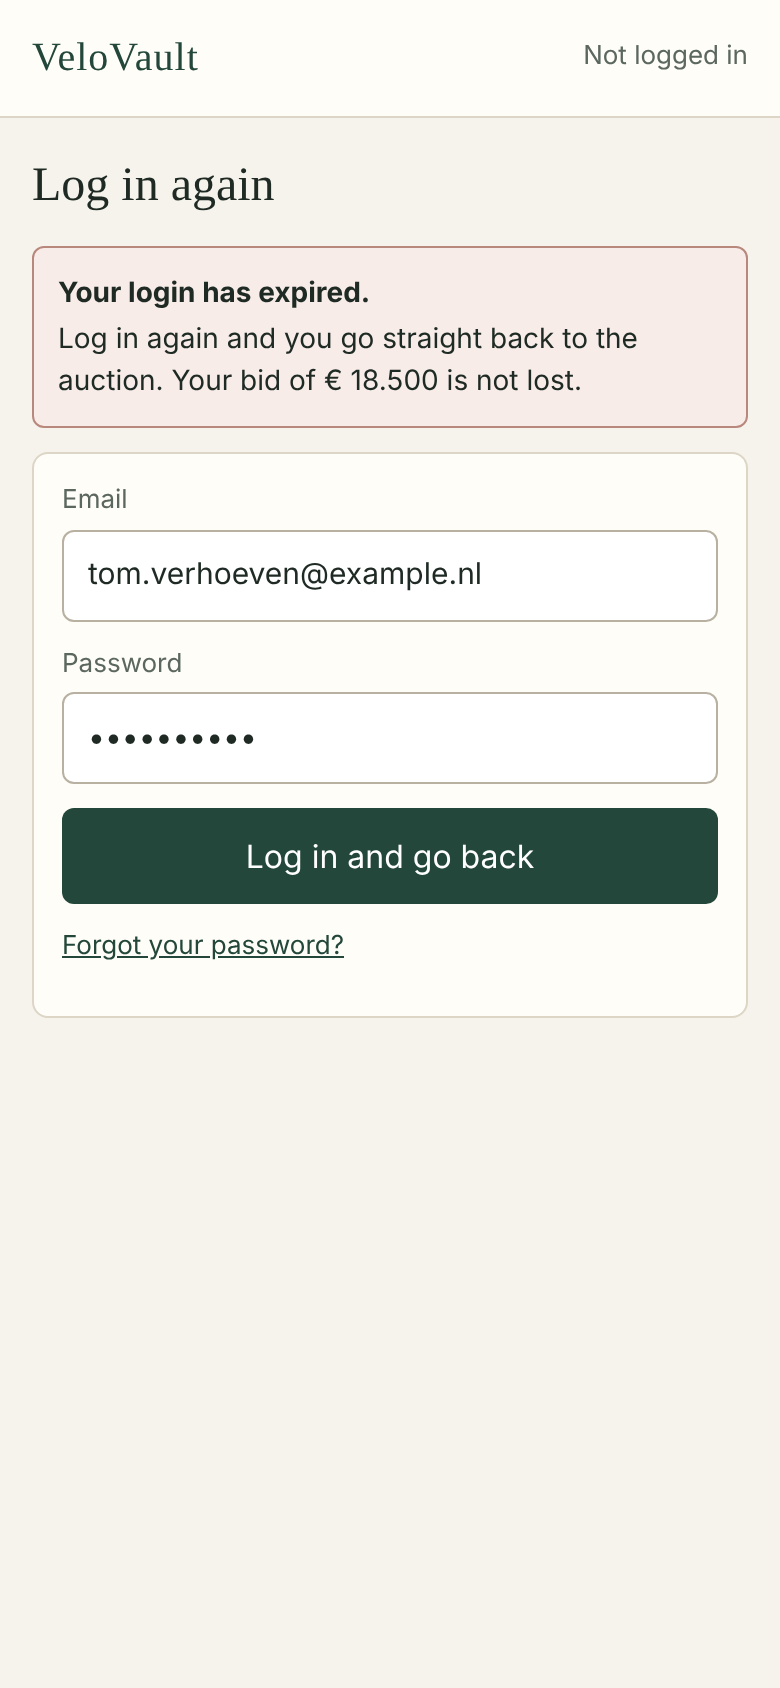
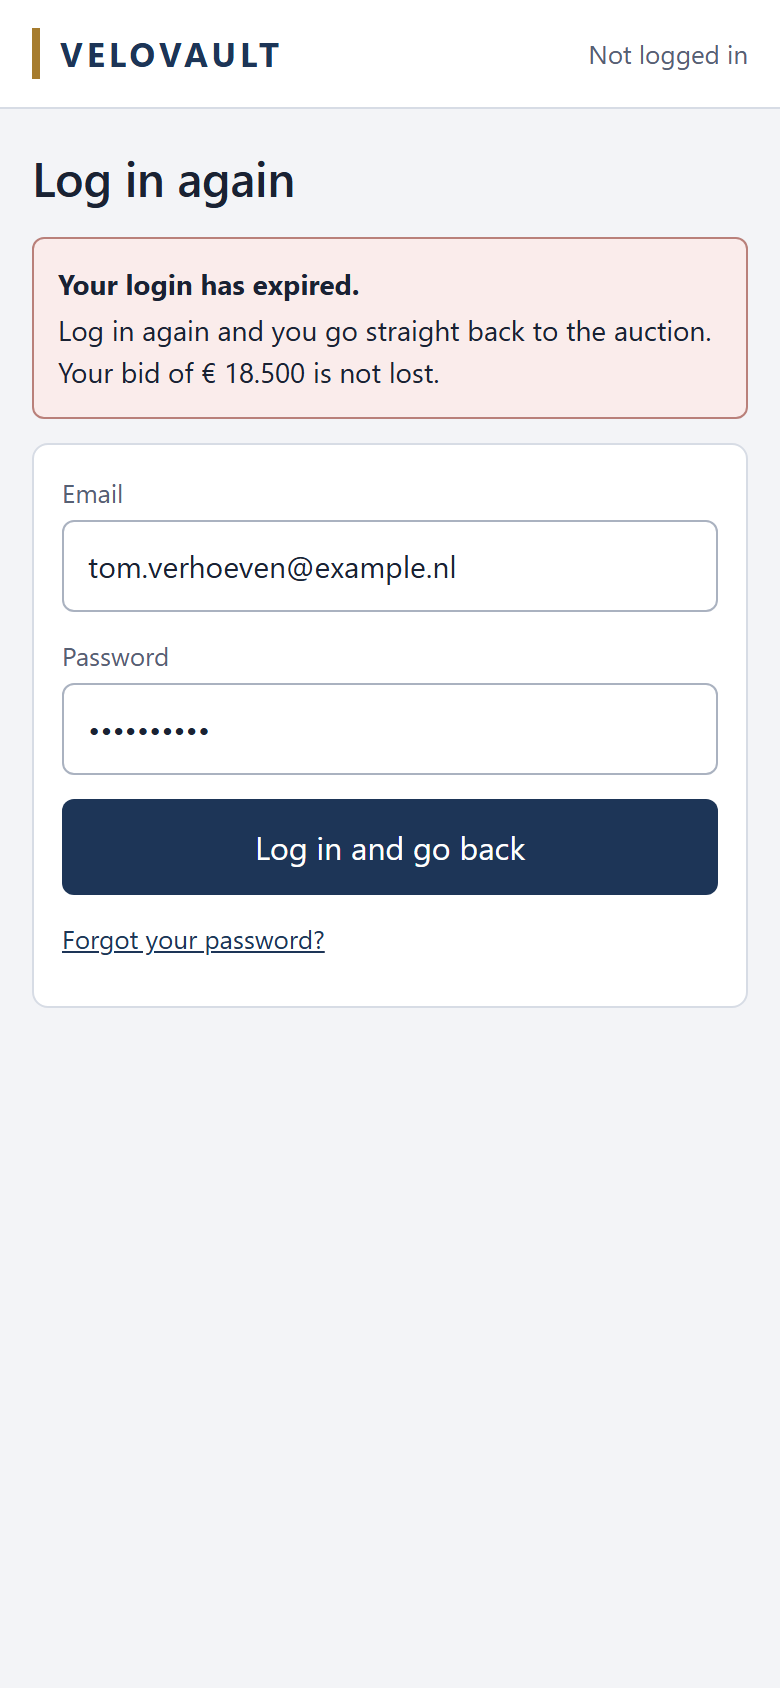
Give the design its own look and add demo car photos
Navy and brass instead of green, one sans serif font and a new logo,
in the app and in the hi-fi prototype, with new screenshots.
Every car in the demo data has a photo from Wikimedia Commons, with credits.

Closes #65

diff --git a/products/hi-fi-prototype/prototype.html b/products/hi-fi-prototype/prototype.html
@@ -6,22 +6,23 @@
 <title>VeloVault prototype</title>
 <style>
   :root {
-    --bg: #f6f3ec;
-    --card: #fffdf8;
-    --ink: #1e2a23;
-    --muted: #5b675f;
-    --line: #ddd5c6;
-    --accent: #23473a;
+    --bg: #f3f4f7;
+    --card: #ffffff;
+    --ink: #1a2233;
+    --muted: #566074;
+    --line: #d7dce5;
+    --accent: #1d3557;
     --accent-ink: #ffffff;
-    --soft: #e9eee9;
-    --error-bg: #f8ece9;
-    --error-line: #b9887d;
-    --ok-bg: #e8f0ea;
-    --ok-line: #7fa48d;
+    --brass: #a67c2e;
+    --soft: #e8edf5;
+    --error-bg: #faeceb;
+    --error-line: #b9807a;
+    --ok-bg: #e7f1ec;
+    --ok-line: #6f9e84;
   }
   * { box-sizing: border-box; }
-  body { margin: 0; background: #d9d4c9; font: 15px/1.5 -apple-system, "Segoe UI", Roboto, Helvetica, Arial, sans-serif; color: var(--ink); }
-  h1, h2, h3, .brand { font-family: Georgia, "Times New Roman", serif; font-weight: normal; }
+  body { margin: 0; background: #d5d9e0; font: 15px/1.5 -apple-system, "Segoe UI", Roboto, Helvetica, Arial, sans-serif; color: var(--ink); }
+  h1, h2, h3 { font-weight: 600; letter-spacing: -.2px; }
   h1 { font-size: 24px; margin: 0 0 4px; }
   h2 { font-size: 19px; margin: 0 0 8px; }
   h3 { font-size: 16px; margin: 0 0 6px; }
@@ -39,26 +40,28 @@
 
   /* header */
   .top { display: flex; align-items: center; justify-content: space-between; padding: 14px 16px; border-bottom: 1px solid var(--line); background: var(--card); }
-  .brand { font-size: 20px; letter-spacing: .5px; color: var(--accent); }
+  .brand { font-size: 17px; font-weight: 700; letter-spacing: 2px; text-transform: uppercase; color: var(--accent); border-left: 4px solid var(--brass); padding-left: 10px; }
   .top .user { font-size: 13px; color: var(--muted); }
   .wrap { padding: 16px; }
   .back { display: inline-block; margin-bottom: 10px; font-size: 14px; text-decoration: none; }
 
   /* parts */
-  .photo { height: 210px; border-radius: 6px; background: linear-gradient(135deg, #b9b2a3, #8f9a8f); display: flex; align-items: flex-end; padding: 10px; color: #fff; font-size: 12px; }
+  .photo { height: 210px; border-radius: 6px; background: linear-gradient(135deg, #b7c0cc, #8d97a6); display: flex; align-items: flex-end; padding: 10px; color: #fff; font-size: 12px; }
   .photo.sm { height: 96px; width: 128px; flex: none; }
+  img.photo { display: block; width: 100%; padding: 0; object-fit: cover; }
+  img.photo.sm { width: 128px; }
   .card { background: var(--card); border: 1px solid var(--line); border-radius: 8px; padding: 14px; margin-bottom: 12px; }
   .status { display: inline-flex; align-items: center; gap: 6px; font-size: 13px; padding: 3px 10px; border: 1px solid var(--line); border-radius: 999px; background: var(--card); }
   .status::before { content: ""; width: 8px; height: 8px; border-radius: 50%; background: currentColor; }
   .status.open { color: var(--accent); }
-  .status.closed { color: #6b6b6b; }
-  .status.pending { color: #8a6a2a; }
-  .status.cancelled { color: #7a3b33; }
+  .status.closed { color: #646a75; }
+  .status.pending { color: #8a5a12; }
+  .status.cancelled { color: #8a3a33; }
   .facts { display: grid; grid-template-columns: 1fr 1fr; gap: 10px; margin: 12px 0; }
   .fact .k { font-size: 12px; color: var(--muted); }
   .fact .v { font-size: 18px; }
   label { display: block; font-size: 13px; color: var(--muted); margin-bottom: 4px; }
-  .input { display: flex; align-items: center; border: 1px solid #b8b0a1; border-radius: 6px; background: #fff; padding: 0 12px; height: 46px; font-size: 17px; }
+  .input { display: flex; align-items: center; border: 1px solid #aab2c0; border-radius: 6px; background: #fff; padding: 0 12px; height: 46px; font-size: 17px; }
   .input .eur { color: var(--muted); margin-right: 6px; }
   .input.bad { border-color: var(--error-line); border-width: 2px; }
   .hint { font-size: 13px; color: var(--muted); margin-top: 6px; }
@@ -77,7 +80,7 @@
   .chip.on { border-color: var(--accent); background: var(--soft); }
   .listing { display: flex; gap: 12px; text-decoration: none; color: inherit; }
   .countdown { font-size: 14px; color: var(--accent); }
-  .overlay { position: absolute; inset: 0; background: rgba(30,42,35,.45); display: flex; align-items: center; justify-content: center; }
+  .overlay { position: absolute; inset: 0; background: rgba(26,34,51,.45); display: flex; align-items: center; justify-content: center; }
   .dialog { background: var(--card); border-radius: 10px; padding: 24px; width: 520px; box-shadow: 0 8px 30px rgba(0,0,0,.25); }
   .rel { position: relative; }
   .cols { display: grid; grid-template-columns: 1fr 420px; gap: 24px; }
@@ -94,7 +97,9 @@
   body.wire .btn.ghost { background: #fff !important; color: #333 !important; }
   body.wire .msg, body.wire .card, body.wire .top, body.wire .chip.on, body.wire tr.sel td, body.wire .dialog { background: #fff !important; }
   body.wire .overlay { background: rgba(0,0,0,.25) !important; }
+  body.shot .screen { margin: 0; box-shadow: none; }
   body.wire .status::before { background: #999 !important; }
+  body.wire img.photo { object-position: -9999px 0; }
 </style>
 </head>
 <body>
@@ -113,7 +118,7 @@
       <span class="chip">Clear filters</span>
     </div>
     <a class="card listing" href="#b2">
-      <div class="photo sm">photo</div>
+      <img class="photo sm" src="photos/citroen-ds.jpg" alt="">
       <div>
         <h3>Citroën DS 21 Pallas, 1969</h3>
         <span class="status open">Open · ends Fri 16 Oct, 20:00</span>
@@ -121,7 +126,7 @@
       </div>
     </a>
     <div class="card listing">
-      <div class="photo sm">photo</div>
+      <img class="photo sm" src="photos/peugeot-404-coupe.jpg" alt="">
       <div>
         <h3>Peugeot 404 Coupé, 1965</h3>
         <span class="status pending">Starts Sat 17 Oct, 10:00</span>
@@ -129,7 +134,7 @@
       </div>
     </div>
     <div class="card listing">
-      <div class="photo sm">photo</div>
+      <img class="photo sm" src="photos/citroen-sm.jpg" alt="">
       <div>
         <h3>Citroën SM, 1972</h3>
         <span class="status open">Open · ends Tue 20 Oct, 19:30</span>
@@ -143,7 +148,7 @@
   <div class="top"><span class="brand">VeloVault</span><span class="user">Tom V. · Buyer</span></div>
   <div class="wrap">
     <a class="back" href="#b1">‹ Back to the list (your filters stay)</a>
-    <div class="photo">1 / 54 photos</div>
+    <img class="photo" src="photos/citroen-ds.jpg" alt="Citroën DS 21 Pallas from 1969">
     <h1 style="margin-top:12px">Citroën DS 21 Pallas, 1969</h1>
     <p class="muted small">Gris Palladium · 112.000 km · condition: Good</p>
     <span class="status open">Open</span>
@@ -224,7 +229,7 @@
   <div class="top"><span class="brand">VeloVault</span><span class="user">Tom V. · Buyer</span></div>
   <div class="wrap">
     <a class="back" href="#b1">‹ Back to the list (your filters stay)</a>
-    <div class="photo">1 / 54 photos</div>
+    <img class="photo" src="photos/citroen-ds.jpg" alt="Citroën DS 21 Pallas from 1969">
     <h1 style="margin-top:12px">Citroën DS 21 Pallas, 1969</h1>
     <span class="status closed">Closed · ended Fri 16 Oct, 20:00</span>
     <div class="msg error"><b>This auction is closed.</b>You can't bid anymore. The final price and the bid history stay here.</div>
@@ -282,7 +287,7 @@
     <a class="back" href="#s1">‹ Back to search results</a>
     <div class="cols">
       <div>
-        <div class="photo" style="height:300px">photo</div>
+        <img class="photo" style="height:300px" src="photos/porsche-911t.jpg" alt="Porsche 911 T from 1973">
         <h1 style="margin-top:14px">Porsche 911 T, 1973</h1>
         <p class="muted">Seller: Diane Hoekstra · d.hoekstra@example.nl</p>
         <div class="card">
@@ -366,6 +371,8 @@
   // Shows one screen at a time. Use #b1 ... #s5 in the URL, add ?mode=wire for the wireframe look.
   const params = new URLSearchParams(location.search);
   if (params.get('mode') === 'wire') document.body.classList.add('wire');
+  // ?shot=1 removes the grey frame around the screen, for the screenshots in this folder
+  if (params.has('shot')) document.body.classList.add('shot');
   function show() {
     const id = (location.hash || '#b1').slice(1);
     document.querySelectorAll('.screen').forEach(s => s.classList.toggle('show', s.id === id));

diff --git a/code/frontend/src/app.css b/code/frontend/src/app.css
@@ -1,20 +1,24 @@
-/* Same look as products/hi-fi-prototype: calm, warm background, one dark green accent (NFR-04) */
+/*
+ * Same look as products/hi-fi-prototype (NFR-04): calm and light, one navy accent for everything you can press,
+ * and brass only as a small detail on the logo, like the badge on a classic car.
+ */
 :root {
-  --bg: #f6f3ec;
-  --card: #fffdf8;
-  --ink: #1e2a23;
-  --muted: #5b675f;
-  --line: #ddd5c6;
-  --accent: #23473a;
+  --bg: #f3f4f7;
+  --card: #ffffff;
+  --ink: #1a2233;
+  --muted: #566074;
+  --line: #d7dce5;
+  --accent: #1d3557;
   --accent-ink: #ffffff;
-  --soft: #e9eee9;
-  --error-bg: #f8ece9;
-  --error-line: #b9887d;
-  --ok-bg: #e8f0ea;
-  --ok-line: #7fa48d;
-  --pending: #8a6a2a;
-  --cancelled: #7a3b33;
-  --closed: #6b6b6b;
+  --brass: #a67c2e;
+  --soft: #e8edf5;
+  --error-bg: #faeceb;
+  --error-line: #b9807a;
+  --ok-bg: #e7f1ec;
+  --ok-line: #6f9e84;
+  --pending: #8a5a12;
+  --cancelled: #8a3a33;
+  --closed: #646a75;
   --radius: 8px;
 }
 
@@ -27,7 +31,7 @@ body {
   font: 16px/1.5 -apple-system, "Segoe UI", Roboto, Helvetica, Arial, sans-serif;
 }
 
-h1, h2, h3, .brand { font-family: Georgia, "Times New Roman", serif; font-weight: normal; }
+h1, h2, h3 { font-weight: 600; letter-spacing: -.2px; }
 h1 { font-size: 26px; margin: 0 0 4px; }
 h2 { font-size: 20px; margin: 0 0 8px; }
 h3 { font-size: 17px; margin: 0 0 6px; }
@@ -50,13 +54,13 @@ a { color: var(--accent); }
 .btn.ghost { background: transparent; color: var(--accent); border: 1px solid var(--accent); }
 .btn:disabled { opacity: .6; cursor: wait; }
 .btn:focus-visible, .chip:focus-visible, input:focus-visible, select:focus-visible, a:focus-visible {
-  outline: 3px solid #8fb5a4; outline-offset: 2px;
+  outline: 3px solid #7fa3d1; outline-offset: 2px;
 }
 
 label { display: block; font-size: 14px; color: var(--muted); margin-bottom: 4px; }
 input, select {
   width: 100%; min-height: 48px; padding: 0 12px; font-size: 17px; color: var(--ink);
-  border: 1px solid #b8b0a1; border-radius: 6px; background: #fff;
+  border: 1px solid #aab2c0; border-radius: 6px; background: #fff;
 }
 input[aria-invalid="true"] { border: 2px solid var(--error-line); }
 
@@ -69,9 +73,11 @@ th, td { text-align: left; padding: 8px 6px; border-bottom: 1px solid var(--line
 th { font-weight: 600; font-size: 13px; color: var(--muted); }
 
 .photo {
-  border-radius: 6px; background: linear-gradient(135deg, #b9b2a3, #8f9a8f);
+  border-radius: 6px; background: linear-gradient(135deg, #b7c0cc, #8d97a6);
   display: flex; align-items: flex-end; padding: 10px; color: #fff; font-size: 13px;
 }
+img.photo { display: block; width: 100%; padding: 0; object-fit: cover; }
+.photo.fill { width: 100%; height: 100%; }
 
 @media (max-width: 420px) {
   .page { padding: 12px; }

diff --git a/code/frontend/src/routes/staff/auctions/[id]/+page.svelte b/code/frontend/src/routes/staff/auctions/[id]/+page.svelte
@@ -8,6 +8,7 @@
   import { dateTime, euros } from '$lib/utils/format';
   import { STAFF_TRANSITIONS, actionLabel, statusName } from '$lib/utils/status';
   import { createNow } from '$lib/utils/now.svelte';
+  import CarPhoto from '$lib/components/CarPhoto.svelte';
   import ConfirmDialog from '$lib/components/ConfirmDialog.svelte';
   import MessageBox from '$lib/components/MessageBox.svelte';
   import StatusBadge from '$lib/components/StatusBadge.svelte';
@@ -103,7 +104,7 @@
   {#if auction}
     <div class="cols">
       <div>
-        <div class="photo hero" aria-hidden="true">photo</div>
+        <CarPhoto carId={auction.carId} alt={carName} class="hero" />
         <h1>{carName}</h1>
         <p class="muted">Seller: {seller?.name ?? `User ${auction.sellerId}`} · {seller?.email ?? ''}</p>
 
@@ -197,7 +198,7 @@
 <style>
   .back { display: inline-block; margin-bottom: 12px; text-decoration: none; }
   .cols { display: grid; grid-template-columns: 1fr 420px; gap: 24px; align-items: start; }
-  .hero { height: 280px; margin-bottom: 14px; }
+  :global(.photo.hero) { height: 280px; margin-bottom: 14px; }
   .small-v { font-size: 15px; }
   .stack { display: grid; gap: 8px; }
   .gap { margin-top: 12px; }

diff --git a/code/frontend/src/routes/auctions/[id]/+page.svelte b/code/frontend/src/routes/auctions/[id]/+page.svelte
@@ -9,6 +9,7 @@
   import AuctionFacts from '$lib/components/AuctionFacts.svelte';
   import BidForm from '$lib/components/BidForm.svelte';
   import BidHistory from '$lib/components/BidHistory.svelte';
+  import CarPhoto from '$lib/components/CarPhoto.svelte';
   import MessageBox from '$lib/components/MessageBox.svelte';
   import StatusBadge from '$lib/components/StatusBadge.svelte';
 
@@ -57,7 +58,7 @@
   {/if}
 
   {#if auction}
-    <div class="photo hero" aria-hidden="true">1 / 54 photos</div>
+    <CarPhoto carId={auction.carId} alt={car ? `${car.make} ${car.model} from ${car.year}, ${car.color}` : ''} class="hero" />
 
     {#if car}
       <h1>{car.make} {car.model}, {car.year}</h1>
@@ -105,6 +106,6 @@
 
 <style>
   .back { display: inline-block; margin-bottom: 12px; text-decoration: none; }
-  .hero { height: 220px; margin-bottom: 12px; }
+  :global(.photo.hero) { height: 220px; margin-bottom: 12px; }
   abbr { text-decoration: underline dotted; cursor: help; }
 </style>

diff --git a/code/frontend/src/lib/components/AppHeader.svelte b/code/frontend/src/lib/components/AppHeader.svelte
@@ -28,7 +28,10 @@
     display: flex; align-items: center; justify-content: space-between; gap: 12px;
     padding: 14px 16px; border-bottom: 1px solid var(--line); background: var(--card);
   }
-  .brand { font-size: 22px; letter-spacing: .5px; color: var(--accent); text-decoration: none; font-family: Georgia, "Times New Roman", serif; }
+  .brand {
+    font-size: 18px; font-weight: 700; letter-spacing: 2px; text-transform: uppercase; color: var(--accent);
+    text-decoration: none; border-left: 4px solid var(--brass); padding-left: 10px;
+  }
   .user { display: flex; align-items: center; gap: 14px; color: var(--muted); flex-wrap: wrap; justify-content: flex-end; }
   .link { background: none; border: 0; padding: 0; color: var(--accent); text-decoration: underline; font: inherit; cursor: pointer; }
 </style>

diff --git a/code/frontend/src/lib/components/CarCard.svelte b/code/frontend/src/lib/components/CarCard.svelte
@@ -1,13 +1,15 @@
 <script lang="ts">
   import type { Listing } from '$lib/api/types';
   import { dateTime, endsWithinADay, euros, isOpen, timeLeft } from '$lib/utils/format';
+  import CarPhoto from './CarPhoto.svelte';
   import StatusBadge from './StatusBadge.svelte';
 
   let { listing, now }: { listing: Listing; now: number } = $props();
 </script>
 
 <a href="/auctions/{listing.auction.id}" class="card listing">
-  <div class="photo thumb" aria-hidden="true">photo</div>
+  <!-- alt is empty: the name of the car is the title right next to it, so a screen reader would say it twice -->
+  <div class="thumb"><CarPhoto carId={listing.car.id} alt="" class="fill" /></div>
   <div>
     <h3>{listing.car.make} {listing.car.model}, {listing.car.year}</h3>
     <StatusBadge auction={listing.auction} {now} />

diff --git a/code/frontend/src/lib/components/CarPhoto.svelte b/code/frontend/src/lib/components/CarPhoto.svelte
@@ -1,0 +1,16 @@
+<script lang="ts">
+  /**
+   * The demo photo of a car, from static/cars/<car id>.jpg (see static/cars/CREDITS.md).
+   * A car without a photo gets the grey placeholder, so the layout stays the same.
+   * Uploading photos (CAR-03) is not part of my 2 requirements.
+   */
+  let { carId, alt, class: className = '' }: { carId: string; alt: string; class?: string } = $props();
+
+  let failed = $state(false);
+</script>
+
+{#if failed}
+  <div class="photo {className}" aria-hidden="true">photo</div>
+{:else}
+  <img src="/cars/{carId}.jpg" {alt} class="photo {className}" loading="lazy" onerror={() => (failed = true)} />
+{/if}

diff --git a/code/frontend/src/lib/components/ConfirmDialog.svelte b/code/frontend/src/lib/components/ConfirmDialog.svelte
@@ -36,6 +36,6 @@
 
 <style>
   dialog { border: 0; border-radius: 10px; padding: 24px; width: min(540px, calc(100vw - 32px)); background: var(--card); color: var(--ink); }
-  dialog::backdrop { background: rgba(30, 42, 35, .45); }
+  dialog::backdrop { background: rgba(26, 34, 51, .45); }
   .actions { display: flex; gap: 10px; flex-wrap: wrap; margin-top: 16px; }
 </style>

diff --git a/products/hi-fi-prototype.md b/products/hi-fi-prototype.md
@@ -11,8 +11,9 @@ Marcus wants the platform to feel "like walking into our showroom. Calm, a bit o
 
 | Choice | Why |
 |---|---|
-| Warm off-white background, dark green as the only accent colour | Calm and trustworthy, not like a flea market site |
-| Serif font for the car names and titles, sans serif for the rest | A bit of polish, but the numbers stay easy to read on a phone |
+| Light grey-blue background, white cards, navy as the only colour for buttons and links | Calm and trustworthy, like a bank or a good showroom, not like a flea market site. One accent colour means Tom always knows what he can press. |
+| Brass only as a small detail on the logo | Like the badge on a classic car: a bit of polish without stealing attention from the cars |
+| One sans serif font, logo in capitals, titles in semi-bold | Clean and easy to read on a phone, also the numbers (current bid, time left) |
 | Big photo on top of the auction page | The car is the main thing |
 | No red, no capitals, no flashing banners, also not in the last hour | Marcus: no "ONLY 2 HOURS LEFT!!!" |
 | Status always as a word with a dot, never only a colour | Tom is red-green colour-blind (BRW-05) |
@@ -42,5 +43,18 @@ Marcus wants the platform to feel "like walking into our showroom. Calm, a bit o
 
 ## Not in the prototype
 
-- The real car photos. There is a placeholder with the number of photos.
+- More than one photo per car, and uploading photos (CAR-03). That is not part of my 2 requirements, so each car has one demo photo.
 - Screens for adding a car and creating an auction. They are not part of my 2 requirements.
+
+## Photo credits
+
+The demo photos come from Wikimedia Commons and are in [hi-fi-prototype/photos/](hi-fi-prototype/photos/). The app uses the same photos, see [code/frontend/static/cars/CREDITS.md](../code/frontend/static/cars/CREDITS.md).
+
+| Photo | Author | Licence |
+|---|---|---|
+| [Citroën DS 21 Pallas](https://commons.wikimedia.org/wiki/File:Citroen_DS_21_Pallas_(45176422461).jpg) | Guillaume Vachey | CC0 |
+| [Porsche 911 T](https://commons.wikimedia.org/wiki/File:Porsche-911-T-2.4-Classic-1973-LightIvory131-RAL1015-ARG-badgePCA-byRundvald.jpg) | Rundvald | CC BY-SA 4.0 |
+| [Peugeot 404 Coupé](https://commons.wikimedia.org/wiki/File:Peugeot-404-coupe-Pininfarina-ecusson-Autocyclettes-byRundvald.jpg) | Rundvald | CC BY-SA 4.0 |
+| [Alfa Romeo Giulia Sprint GT](https://commons.wikimedia.org/wiki/File:Alfa_Romeo_Giulia_Sprint_GT_(Bertone)-_P5200993-2.jpg) | Ermell | CC BY-SA 4.0 |
+| [Citroën SM](https://commons.wikimedia.org/wiki/File:Le_Mans_-_Musee_24h_-_Citroen_SM_1.jpg) | Selbymay | CC BY-SA 3.0 |
+| [Mercedes-Benz 280 SL](https://commons.wikimedia.org/wiki/File:Mercedes-Benz_W113_280_SL_2014-09-07_12-45-34.jpg) | Berthold Werner | CC BY-SA 3.0 |

diff --git a/code/frontend/static/cars/CREDITS.md b/code/frontend/static/cars/CREDITS.md
@@ -1,0 +1,12 @@
+# Photo credits
+
+Demo photos of the cars in the seed data. The file name is the id of the car in the car service, so the frontend finds the photo without asking the server. They come from Wikimedia Commons and are scaled down to 1200 px wide, nothing else is changed. The same photos are used in the [hi-fi prototype](../../../../products/hi-fi-prototype/photos/).
+
+| File | Car | Author | Licence | Source |
+|---|---|---|---|---|
+| 11111111-1111-4111-8111-111111111111.jpg | Citroën DS 21 Pallas | Guillaume Vachey | CC0 | [Commons](https://commons.wikimedia.org/wiki/File:Citroen_DS_21_Pallas_(45176422461).jpg) |
+| 22222222-2222-4222-8222-222222222222.jpg | Porsche 911 T | Rundvald | CC BY-SA 4.0 | [Commons](https://commons.wikimedia.org/wiki/File:Porsche-911-T-2.4-Classic-1973-LightIvory131-RAL1015-ARG-badgePCA-byRundvald.jpg) |
+| 33333333-3333-4333-8333-333333333333.jpg | Peugeot 404 Coupé | Rundvald | CC BY-SA 4.0 | [Commons](https://commons.wikimedia.org/wiki/File:Peugeot-404-coupe-Pininfarina-ecusson-Autocyclettes-byRundvald.jpg) |
+| 44444444-4444-4444-8444-444444444444.jpg | Alfa Romeo Giulia Sprint GT | Ermell | CC BY-SA 4.0 | [Commons](https://commons.wikimedia.org/wiki/File:Alfa_Romeo_Giulia_Sprint_GT_(Bertone)-_P5200993-2.jpg) |
+| 55555555-5555-4555-8555-555555555555.jpg | Citroën SM | Selbymay | CC BY-SA 3.0 | [Commons](https://commons.wikimedia.org/wiki/File:Le_Mans_-_Musee_24h_-_Citroen_SM_1.jpg) |
+| 66666666-6666-4666-8666-666666666666.jpg | Mercedes-Benz 280 SL | Berthold Werner | CC BY-SA 3.0 | [Commons](https://commons.wikimedia.org/wiki/File:Mercedes-Benz_W113_280_SL_2014-09-07_12-45-34.jpg) |
